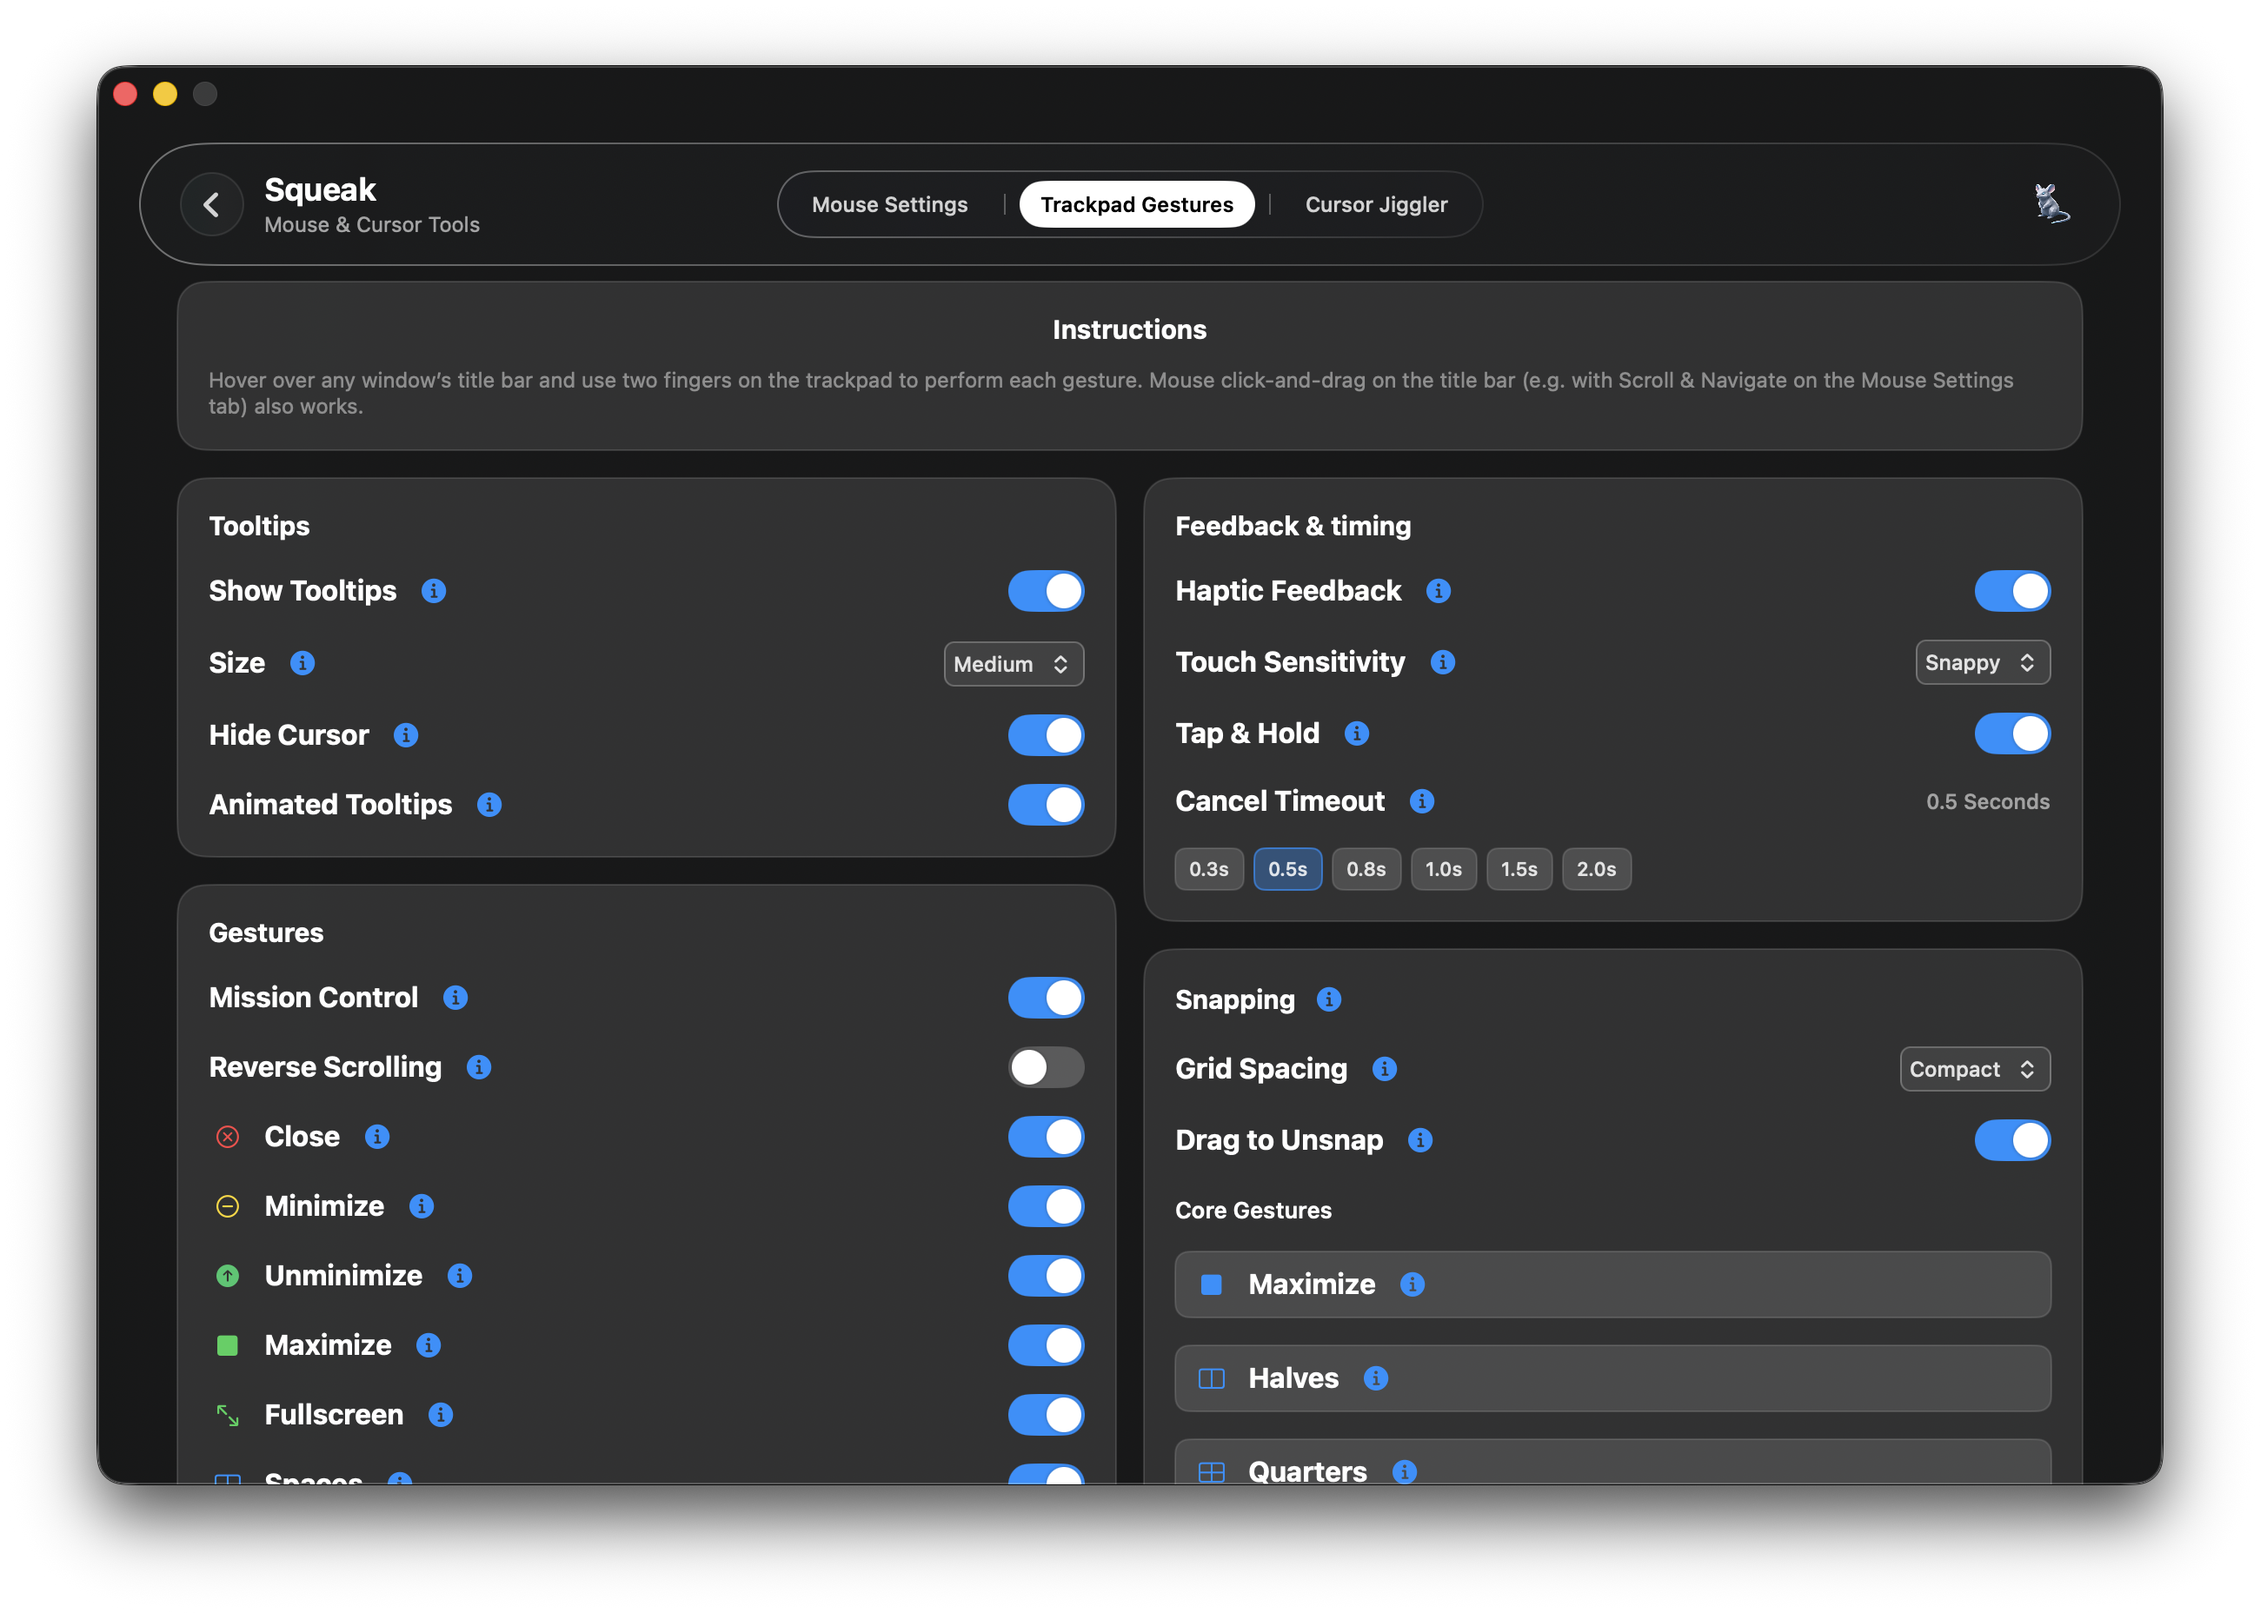
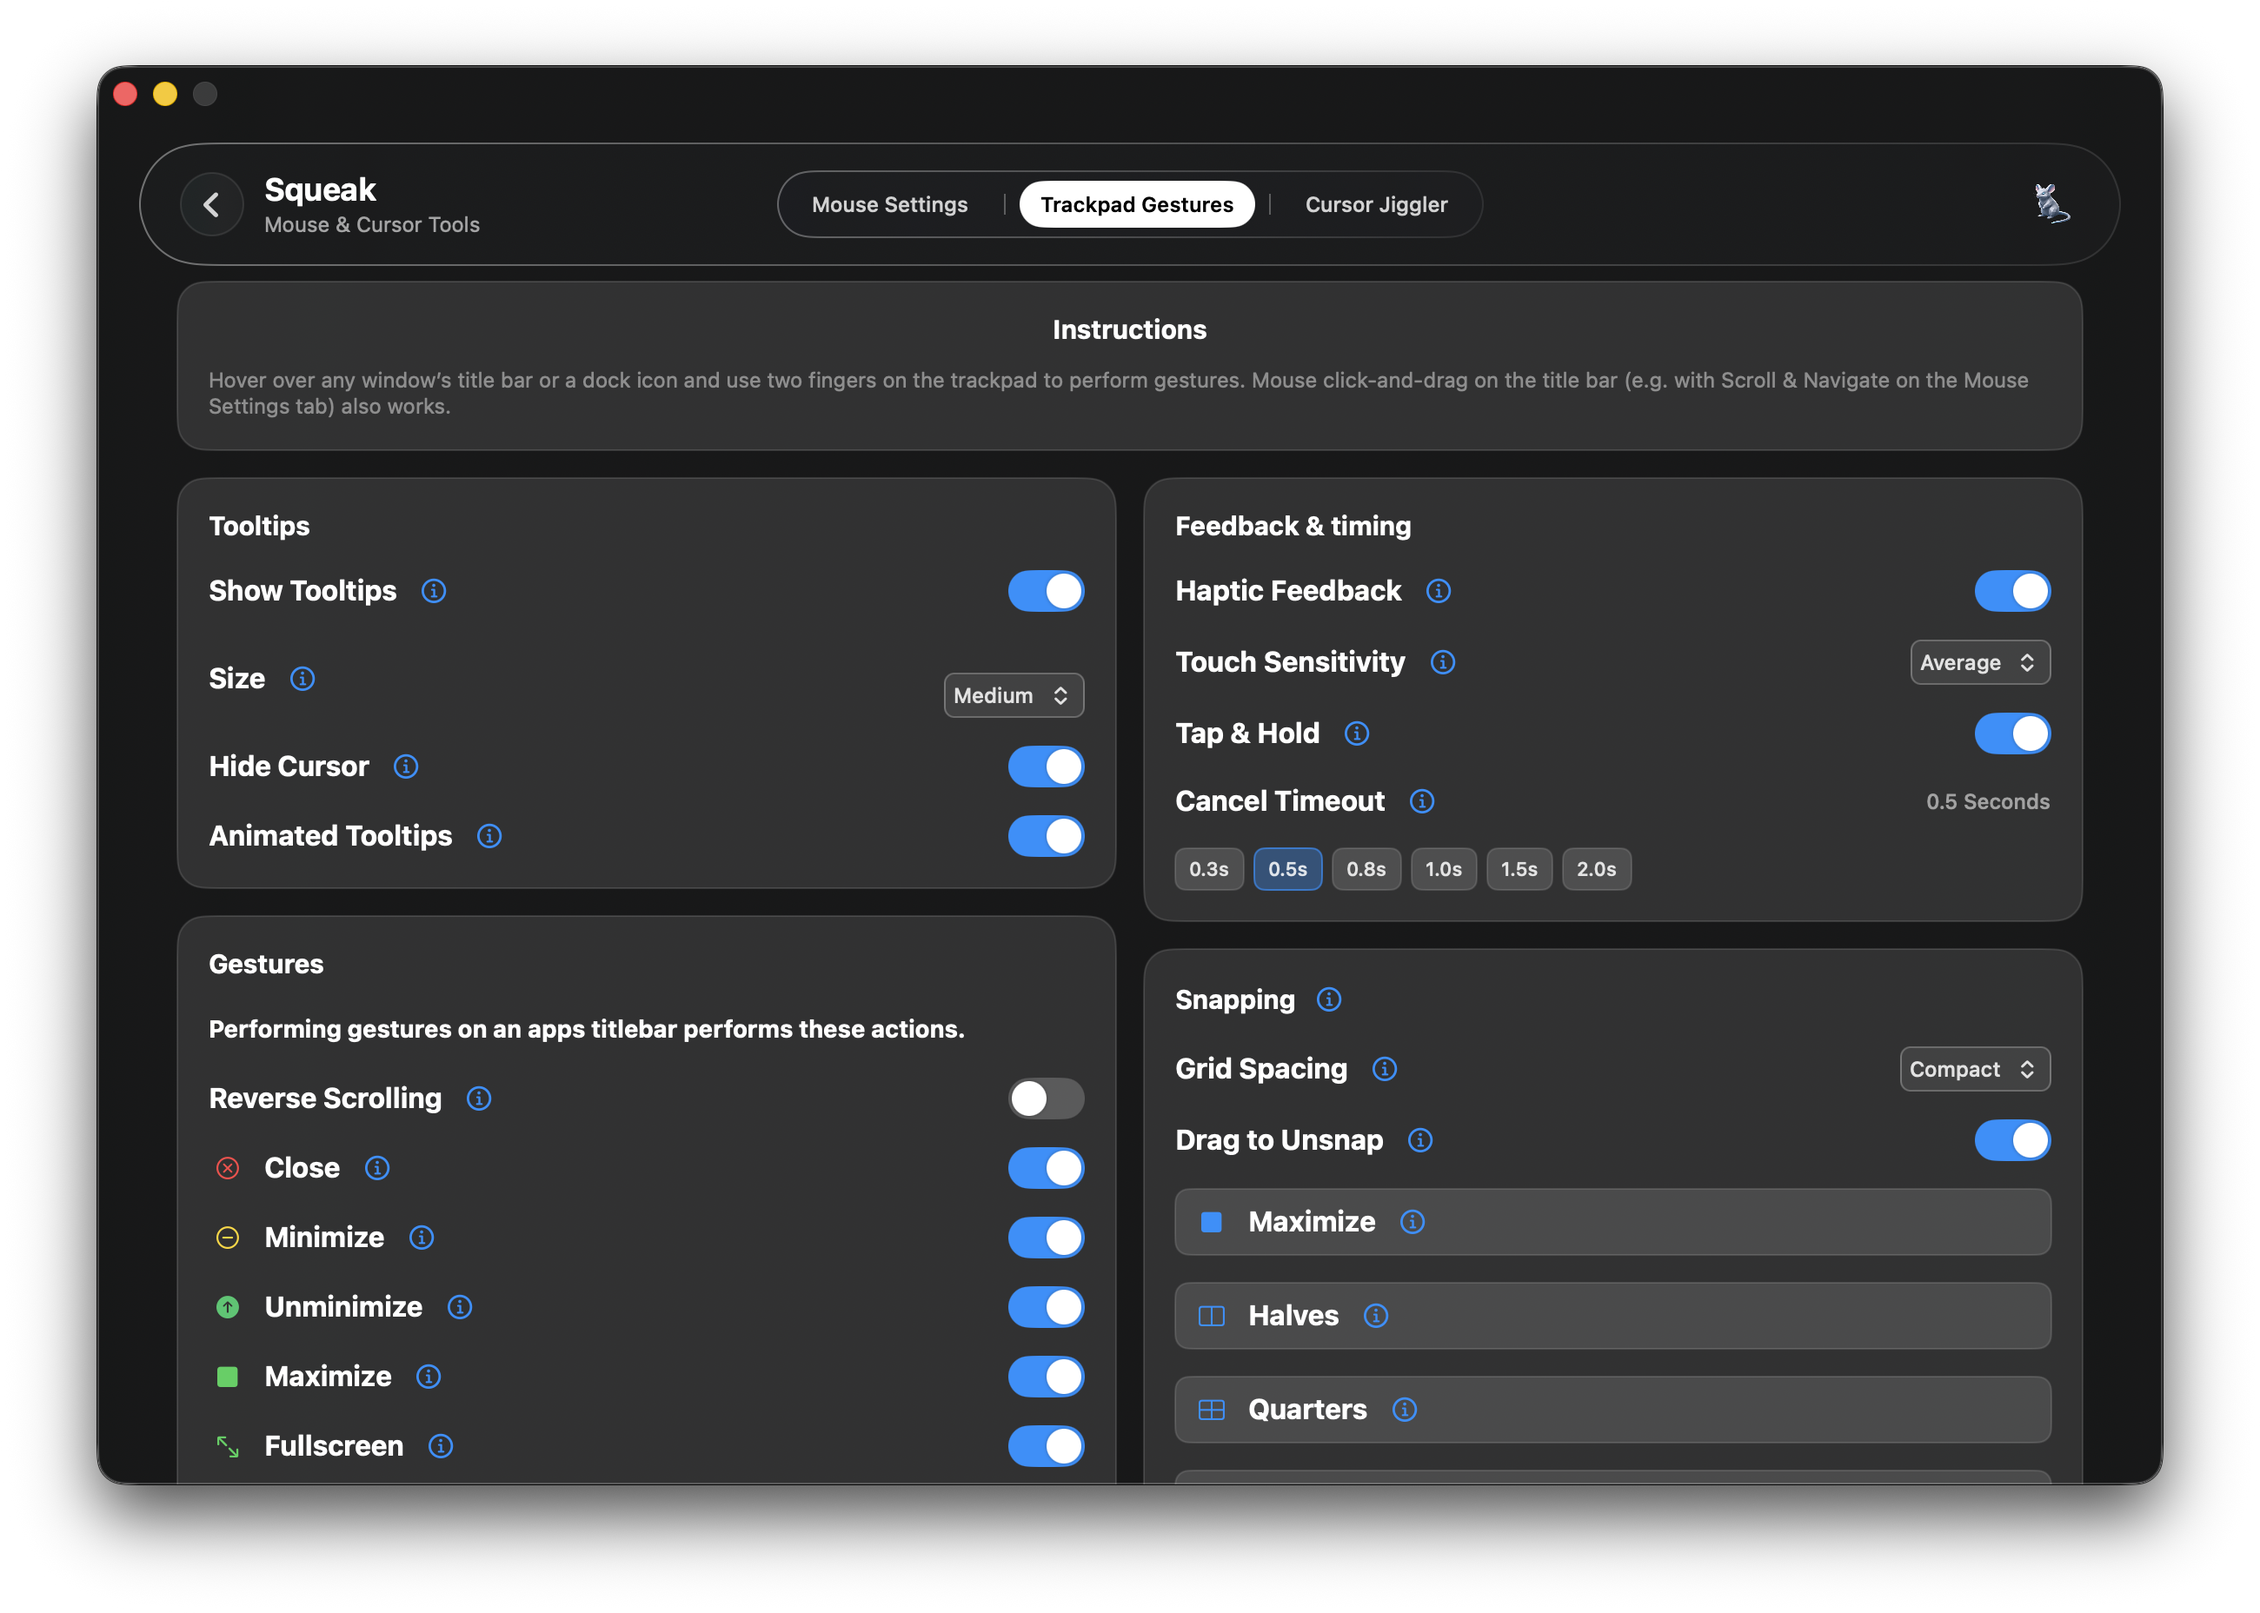
Updates

diff --git a/README.md b/README.md
@@ -1,8 +1,11 @@
 <p align="center">
-  <img src="https://img.shields.io/badge/platform-macOS%2026%2B-blue?style=flat-square" />
-  <img src="https://img.shields.io/badge/apple%20silicon-arm64-black?style=flat-square" />
-  <img src="https://img.shields.io/badge/swift-6.0-orange?style=flat-square" />
-  <img src="https://img.shields.io/badge/price-%246.99%20one--time-green?style=flat-square" />
+  <img src="https://img.shields.io/badge/Platform-MacOS%2026%2B-blue?style=for-the-badge" width="160" />
+  &nbsp;&nbsp;&nbsp;&nbsp;
+  <img src="https://img.shields.io/badge/Apple%20Silicon-Arm64-black?style=for-the-badge" width="158" />
+  &nbsp;&nbsp;&nbsp;&nbsp;
+  <img src="https://img.shields.io/badge/Swift-6.0-orange?style=for-the-badge" width="91" />
+  &nbsp;&nbsp;&nbsp;&nbsp;
+  <a href="https://github.com/git-it-blake/Habitat-Releases/releases"><img src="https://img.shields.io/github/downloads/git-it-blake/Habitat-Releases/total?style=for-the-badge&label=Downloads&color=brightgreen" alt="Downloads" width="128" /></a>
 </p>
 
 <p align="center">
